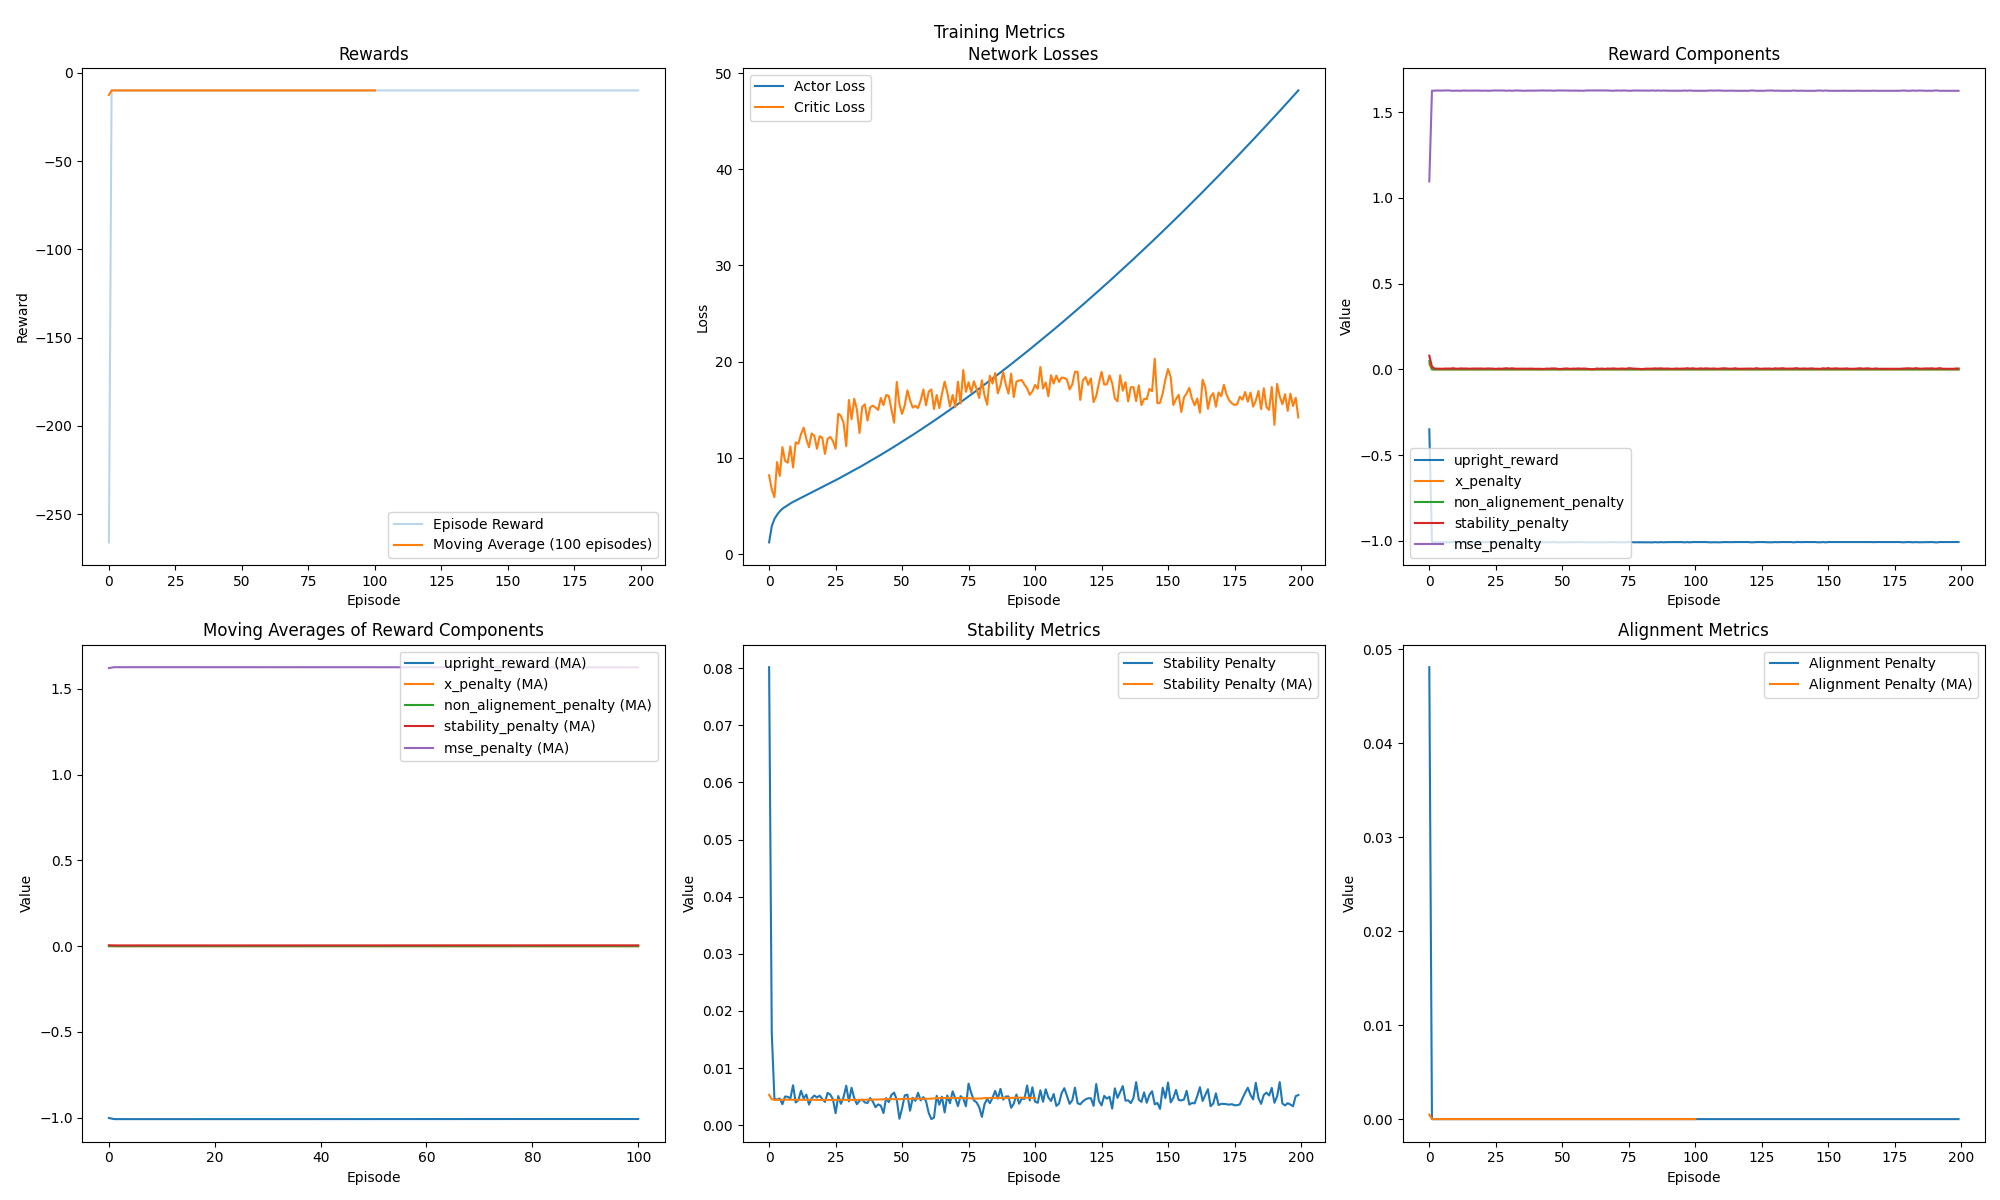
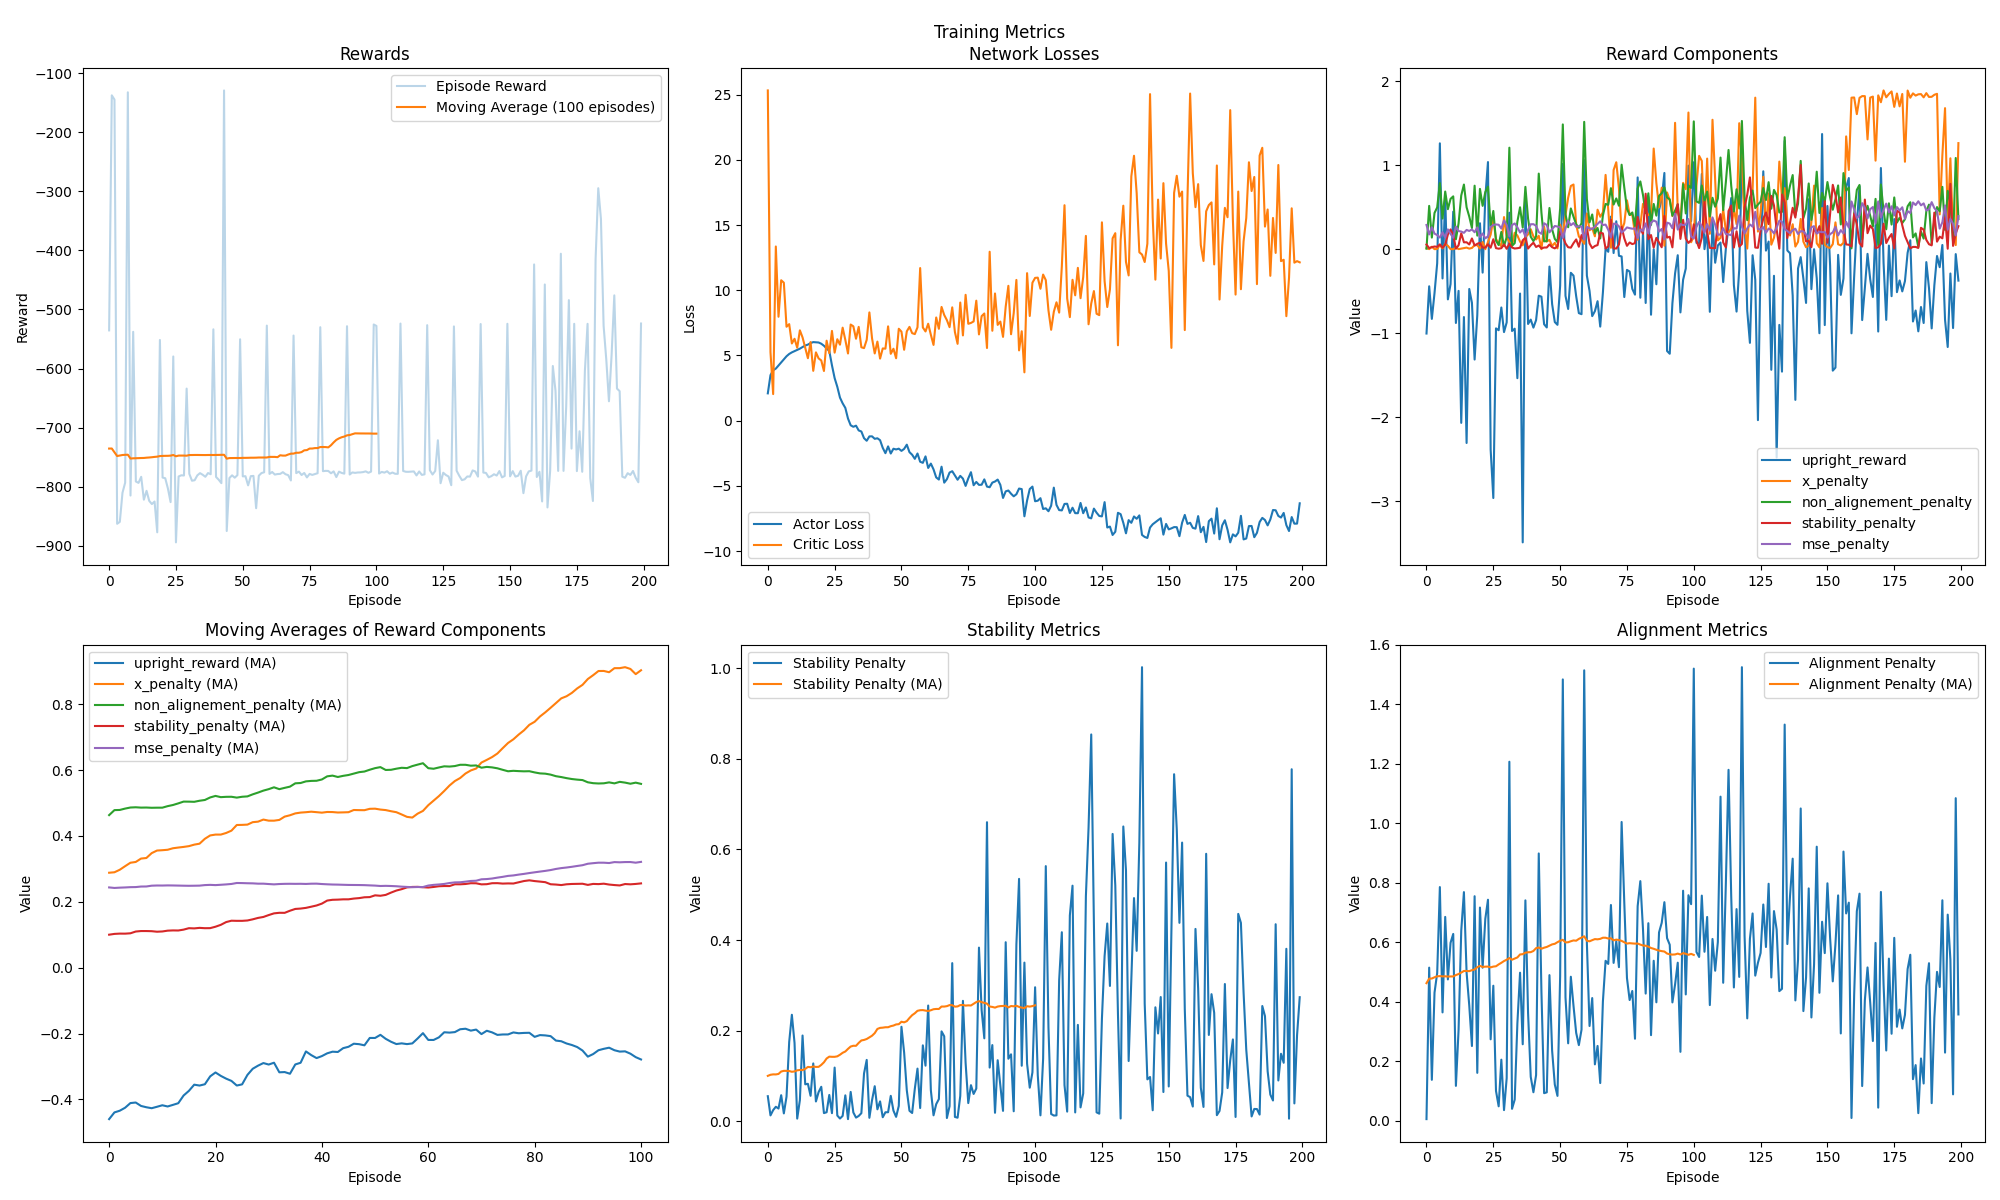
Modification de la configuration du nombre de nœuds dans config.py, ajustement de l'espace d'observation dans env.py, et mise à jour des poids de récompense dans reward.py pour améliorer la gestion des récompenses. Réinitialisation du gestionnaire de récompenses dans train.py et ajustement des dimen

diff --git a/reward.py b/reward.py
@@ -13,12 +13,12 @@ class RewardManager:
         # -----------------------
         # Reward weights
         # -----------------------
-        self.cart_position_weight = 0.20
+        self.cart_position_weight = 0.10
         self.termination_penalty = 100.0
-        self.alignement_weight = 0.4
+        self.alignement_weight = 0.05
         self.upright_weight = 1.5
-        self.stability_weight = 0.02  # Weight for the stability reward
-        self.mse_weight = 5.0  # Weight for the MSE penalty
+        self.stability_weight = 0.008  # Weight for the stability reward
+        self.mse_weight = 1.0  # Weight for the MSE penalty
         
         # -----------------------
         # Upright tracking parameters
@@ -30,10 +30,11 @@ class RewardManager:
         self.have_been_upright_once = False
         self.came_back_down = False
         self.steps_double_down = 0
+        self.force_terminated = False
+        
         # -----------------------
         # State tracking
         # -----------------------
-        self.old_state = None
         self.old_points_positions = None
         self.cached_velocity = 0
         
@@ -139,8 +140,6 @@ class RewardManager:
         reward = upright_reward - x_penalty - non_alignement_penalty - stability_penalty - mse_penalty
         # reward = upright_reward - (x_penalty + non_alignement_penalty + stability_penalty + mse_penalty) * 0.01
 
-        reward /= 5
-
         if not self.have_been_upright_once and end_node_y < 0.5:
             self.have_been_upright_once = True
 
@@ -155,11 +154,13 @@ class RewardManager:
         if terminated:
             reward -= self.termination_penalty
 
-        force_terminated = False
-        if self.steps_double_down > 50:
-            force_terminated = True
-            
-        return reward, upright_reward, x_penalty, non_alignement_penalty, stability_penalty, mse_penalty, force_terminated
+        self.force_terminated = False
+        if self.steps_double_down > 150:
+            self.force_terminated = True
+        
+        print(f'reward: {reward}, upright_reward: {upright_reward}, x_penalty: {x_penalty}, non_alignement_penalty: {non_alignement_penalty}, stability_penalty: {stability_penalty}, mse_penalty: {mse_penalty}, force_terminated: {self.force_terminated}')
+           
+        return reward, upright_reward, x_penalty, non_alignement_penalty, stability_penalty, mse_penalty, self.force_terminated
     
     def get_reward_components(self, state, current_step):
         reward, upright_reward, x_penalty, non_alignement_penalty, stability_penalty, mse_penalty, force_terminated = self.calculate_reward(state, False, current_step)
@@ -169,13 +170,16 @@ class RewardManager:
             'upright_reward': upright_reward,
             'stability_penalty': stability_penalty,
             'mse_penalty': mse_penalty,
-            'reward': reward
+            'reward': reward,
+            'force_terminated': force_terminated
         }
 
     def reset(self):
         """Reset the reward manager state"""
-        self.old_state = None
         self.old_points_positions = None
         self.consecutive_upright_steps = 0
         self.have_been_upright_once = False
+        self.came_back_down = False
+        self.steps_double_down = 0
+        self.force_terminated = False
         self.cached_velocity = 0

diff --git a/env.py b/env.py
@@ -81,7 +81,7 @@ class TriplePendulumEnv(gym.Env):
             np.finfo(np.float32).max       # theta3_ddot
         ], dtype=np.float32)
 
-        self.observation_space = 21
+        self.observation_space = 34
 
         # Internal state
         self.state_for_simu = None
@@ -336,6 +336,10 @@ class TriplePendulumEnv(gym.Env):
         27, non_alignement_penalty, non alignement penalty
         28, stability_penalty, stability penalty
         29, mse_penalty, mse penalty
+        30, have_been_upright_once, binary if pendulum has been upright at least once
+        31, came_back_down, binary if pendulum has come back down after being upright
+        32, steps_double_down, number of steps since coming back down
+        33, force_terminated, binary if episode should be terminated
         Returns:
             list: A list containing all relevant state variables.
         """
@@ -400,11 +404,18 @@ class TriplePendulumEnv(gym.Env):
             stability_penalty = 0
             mse_penalty = 0
 
+        # Get reward manager state
+        have_been_upright_once = float(self.reward_manager.have_been_upright_once)
+        came_back_down = float(self.reward_manager.came_back_down)
+        steps_double_down = self.reward_manager.steps_double_down / 150.0  # Normalize to [0,1]
+        force_terminated = float(self.reward_manager.force_terminated)
+
         # Create model-ready state (only include necessary information)
         model_state = np.concatenate([
             processed_state[:12],  # Original 12 state variables
             [pivot1_x, pivot1_y, end1_x, end1_y, end2_x, end2_y, end3_x, end3_y, close_to_left, close_to_right, normalized_consecutive_upright_steps, is_long_upright],  # Additional visual information 
-            [reward, upright_reward, x_penalty, non_alignement_penalty, stability_penalty, mse_penalty]
+            [reward, upright_reward, x_penalty, non_alignement_penalty, stability_penalty, mse_penalty],
+            [have_been_upright_once, came_back_down, steps_double_down, force_terminated]  # Reward manager state
         ])
 
         return model_state

diff --git a/train.py b/train.py
@@ -35,7 +35,7 @@ class TriplePendulumTrainer:
         
         # Initialize models
         # Original state dimension is 12 (basic state) + 8 (visual information)
-        state_dim = 30
+        state_dim = 34
         action_dim = 1
         self.actor = TriplePendulumActor(state_dim, action_dim)
         self.critic = TriplePendulumCritic(state_dim, action_dim)
@@ -95,6 +95,9 @@ class TriplePendulumTrainer:
         reward_components = None
         num_steps = 0
         
+        # Réinitialiser le RewardManager
+        self.reward_manager.reset()
+        
         while not done and num_steps < self.max_steps:
             state_tensor = torch.FloatTensor(rich_state).unsqueeze(0)
             
@@ -137,7 +140,7 @@ class TriplePendulumTrainer:
             self.total_steps += 1
             num_steps += 1
 
-            if terminated:
+            if terminated or force_terminated:
                 break
             
         # Decay exploration parameters

diff --git a/config.py b/config.py
@@ -8,5 +8,5 @@ config = {
     'buffer_capacity': 100000,
     'updates_per_episode': 10,
     'load_models': False,
-    'num_nodes': 3
+    'num_nodes': 2
 }
